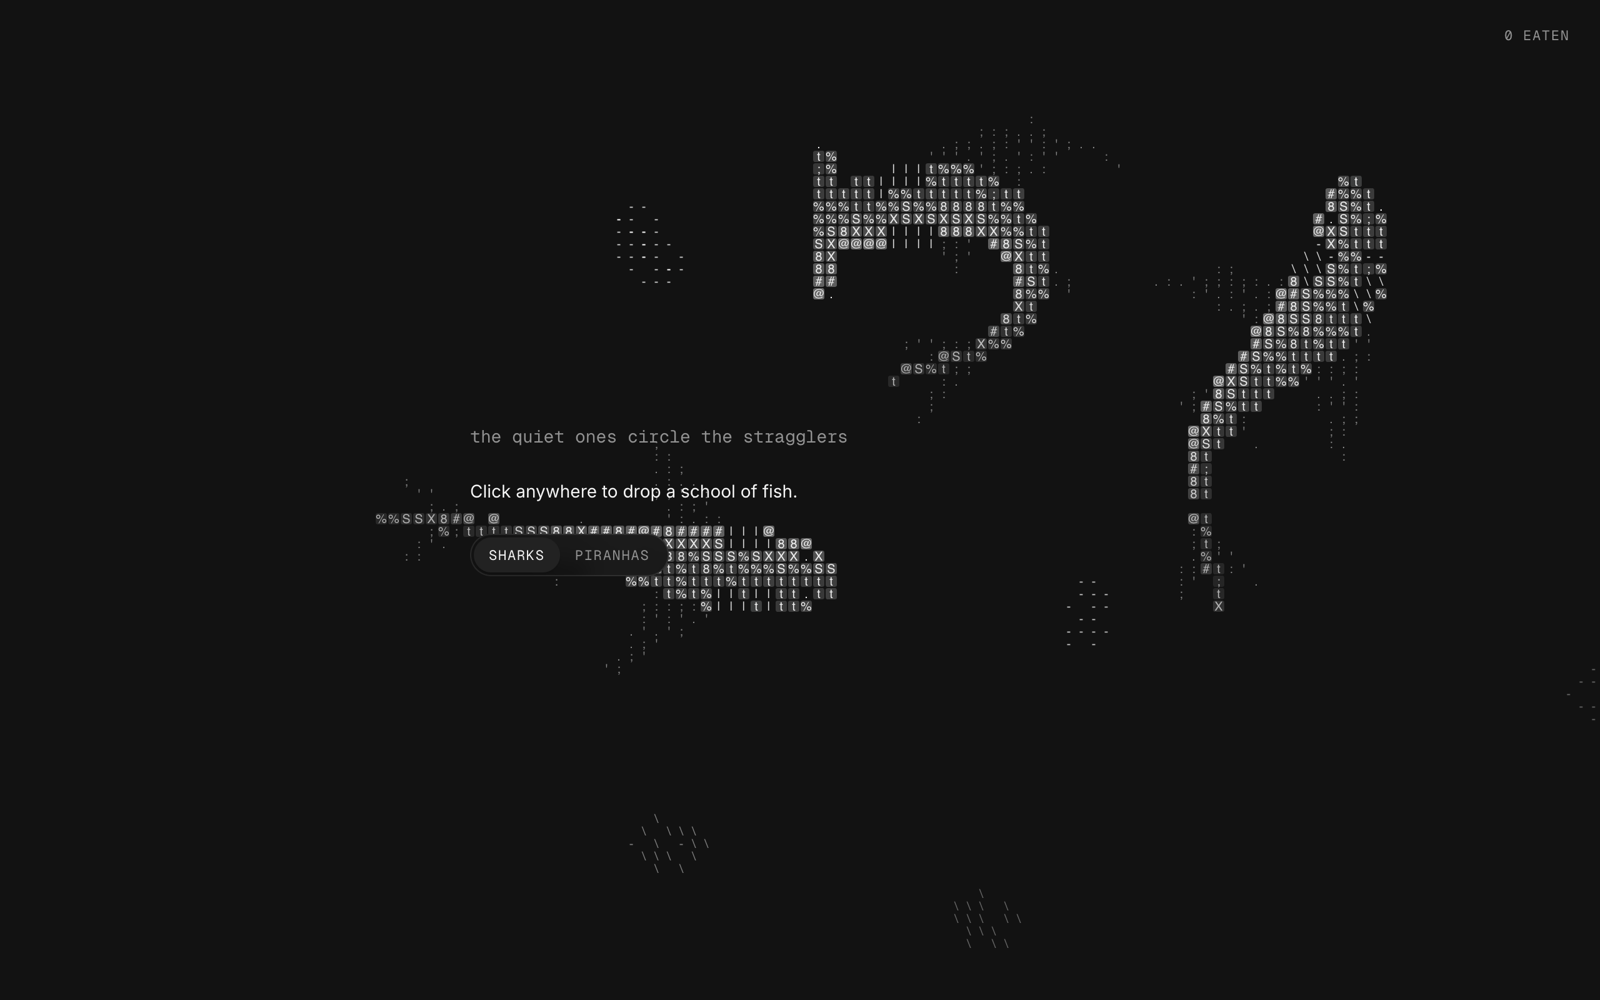
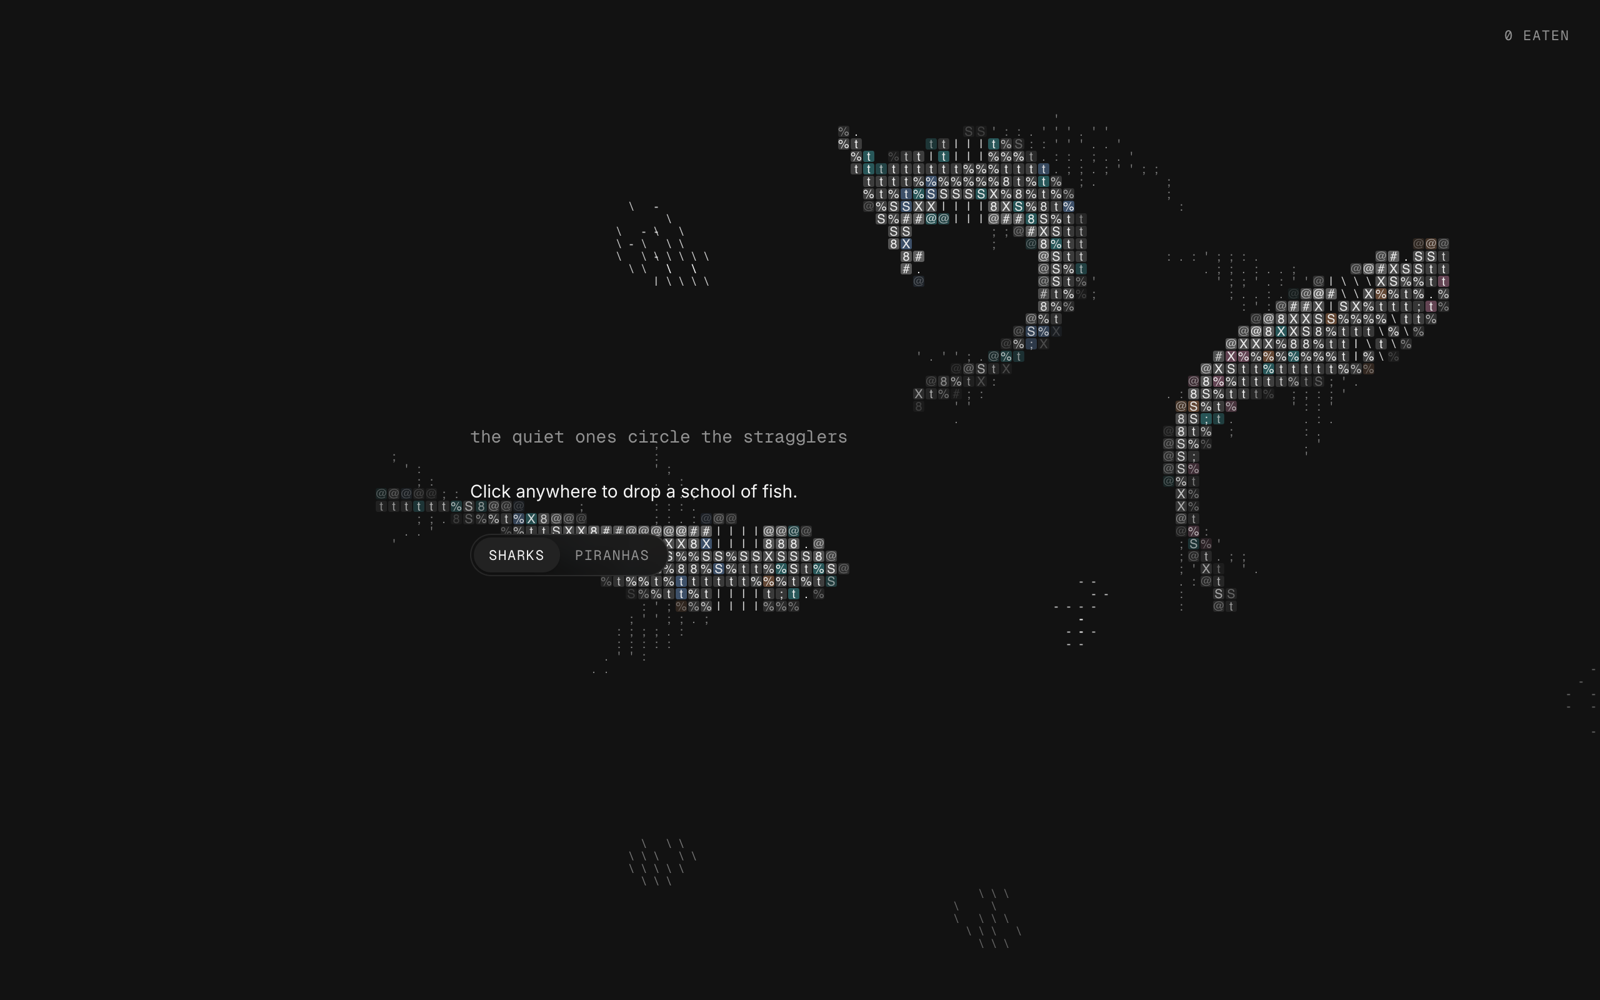
Ocean: sharks swim with a tail wave and steadier turns, soft edges, texture that travels with the body, and tiles in each shark's own muted hues; skill allows a muted mix as texture

diff --git a/registry/blocks/ocean.tsx b/registry/blocks/ocean.tsx
@@ -33,6 +33,12 @@ type Hunter = {
   full: number
   /** A hammerhead among the sharks. */
   hammer: boolean
+  /** The spine as drawn: the swim path plus a wave that grows towards the tail. */
+  body: Vec[]
+  /** Tail-beat phase. */
+  phase: number
+  /** The muted hues scattered over a shark's tiles. */
+  tints: string[]
 }
 type Splash = { x: number; y: number; age: number; seed: number }
 /** A cloud of blood, for the piranhas. */
@@ -53,6 +59,8 @@ const NODES = 16
 const RAMP = ":;t%SX8#@"
 const FIN = "%;tS:"
 const SPLASH_LIFE = 0.9
+/** Hues for the tinted tiles, as in the reference: violet, rose, sage, olive, slate blue, teal, clay. */
+const HUES = [300, 350, 150, 110, 255, 200, 55]
 const BLOOD_LIFE = 4.5
 
 /** A fin as a triangle in body space: leading root, trailing root, tip (s), and how far the tip reaches past the body (fraction of length). */
@@ -163,6 +171,9 @@ function spawnHunter(kind: Kind, width: number, height: number, i: number, n: nu
     seed: r(6) * 100,
     // Every second shark is a hammerhead.
     hammer: kind === "shark" && i % 2 === 1,
+    body: [],
+    phase: r(8) * 10,
+    tints: [0, 1, 2].map((k) => `oklch(0.72 0.1 ${HUES[Math.floor(r(20 + k) * HUES.length)]})`),
     target: null,
     full: r(7) * 3,
   }
@@ -331,10 +342,10 @@ function step(kind: Kind, w: Water, dt: number, time: number) {
     if (!h.target && !cloud && (hx < m || hy < m || hx > w.width - m || hy > w.height - m))
       want = towards(w.width / 2, w.height / 2) * 0.8
 
-    h.turn += (want - h.turn) * Math.min(1, dt * (kind === "shark" ? 1.5 : cloud ? 10 : 6))
+    h.turn += (want - h.turn) * Math.min(1, dt * (kind === "shark" ? 0.9 : cloud ? 10 : 6))
     h.speed += (speed - h.speed) * Math.min(1, dt * (kind === "shark" ? 0.8 : cloud ? 5 : 3))
     const beat = kind === "shark" ? 2.2 : cloud ? 16 : 9
-    h.heading += (h.turn + Math.sin(time * beat + h.seed) * (kind === "shark" ? 0.07 : 0.6)) * dt
+    h.heading += (h.turn + Math.sin(time * beat + h.seed) * (kind === "shark" ? 0 : 0.6)) * dt
     h.spine[0] = [hx + Math.cos(h.heading) * h.speed * dt, hy + Math.sin(h.heading) * h.speed * dt]
     const seg = h.length / (NODES - 1)
     for (let i = 1; i < NODES; i++) {
@@ -343,6 +354,20 @@ function step(kind: Kind, w: Water, dt: number, time: number) {
       const d = Math.hypot(ax - bx, ay - by) || 1
       h.spine[i] = [ax - ((ax - bx) / d) * seg, ay - ((ay - by) / d) * seg]
     }
+
+    // The swim: a wave runs head to tail, small at the head and wide at the
+    // tail, faster when the fish is in a hurry. Drawn, not steered, so the
+    // path stays smooth.
+    h.phase += dt * beat * (0.55 + (0.45 * h.speed) / P.cruise)
+    const amp = h.length * (kind === "shark" ? 0.045 : 0.05)
+    h.body = h.spine.map(([x, y], i): Vec => {
+      const k = i / (NODES - 1)
+      const [ax, ay] = h.spine[Math.max(0, i - 1)]
+      const [bx, by] = h.spine[Math.min(NODES - 1, i + 1)]
+      const dir = Math.atan2(by - ay, bx - ax)
+      const off = amp * Math.pow(k, 1.6) * Math.sin(h.phase - k * 4.2)
+      return [x - Math.sin(dir) * off, y + Math.cos(dir) * off]
+    })
   }
 }
 
@@ -409,7 +434,8 @@ function draw(kind: Kind, g: AsciiGrid, w: Water, accent: string) {
     const P = h.hammer ? HAMMER : PROFILES[kind]
     const L = h.length
     let x0 = Infinity, y0 = Infinity, x1 = -Infinity, y1 = -Infinity
-    for (const [x, y] of h.spine) {
+    const spine = h.body.length ? h.body : h.spine
+    for (const [x, y] of spine) {
       x0 = Math.min(x0, x); y0 = Math.min(y0, y); x1 = Math.max(x1, x); y1 = Math.max(y1, y)
     }
     const pad = L * 0.42
@@ -417,11 +443,18 @@ function draw(kind: Kind, g: AsciiGrid, w: Water, accent: string) {
     const [c1, r1] = cellOf(x1 + pad, y1 + pad)
     for (let r = Math.max(0, r0); r <= Math.min(g.rows, r1); r++)
       for (let c = Math.max(0, c0); c <= Math.min(g.cols, c1); c++) {
-        const { s, l } = locate(h.spine, (c + 0.5) * cell, (r + 0.5) * cell)
+        const { s, l } = locate(spine, (c + 0.5) * cell, (r + 0.5) * cell)
         const body = P.body(s) * L
-        const n = hash(c, r, h.seed)
+        // Texture lives in body space, so it travels with the fish instead
+        // of flickering as the body slides over the grid.
+        const bi = Math.round((s * L) / cell)
+        const bj = Math.round(l / cell)
+        const n = hash(bi, bj, h.seed)
         const a = Math.abs(l)
-        if (a <= body + (n - 0.5) * cell * 0.4) {
+        if (a <= body + cell * 0.45) {
+          // Soft edge: a cell half over the body is half there.
+          const cover = Math.max(0, Math.min(1, (body - a) / cell + 0.6))
+          if (cover <= 0.05) continue
           // Light from one side: bright flank sparse, far flank dense.
           const u = l / Math.max(1, body)
           const light = Math.max(0, Math.min(1, 0.62 - u * 0.32 - Math.abs(u) * Math.abs(u) * 0.3 + (n - 0.5) * 0.18))
@@ -429,9 +462,15 @@ function draw(kind: Kind, g: AsciiGrid, w: Water, accent: string) {
           const tail = smooth(0.6, 1, s)
           // The dorsal fin, seen from above: a bright dense line down the back.
           const ridge = P.ridge && s > P.ridge[0] && s < P.ridge[1] && Math.abs(u) < 0.12
-          // Sharks are tiles: a block shaded by the light with its glyph on top.
-          if (kind === "shark") g.block(c, r, g.ink, (0.1 + (1 - light) * 0.28) * (1 - tail * 0.5))
-          g.glyph(c, r, ridge ? "8" : char, g.ink, ridge ? 0.9 : 0.95 - tail * 0.3)
+          if (kind === "shark") {
+            // Sharks are tiles: a block shaded by the light with its glyph on
+            // top, and a few tiles in the shark's own muted hues that shift
+            // slowly, like light through water.
+            const t = hash(bi, bj, h.seed + Math.floor(g.time * 0.7 + n * 3))
+            const tint = t < 0.16 ? h.tints[Math.floor(t * 100) % h.tints.length] : null
+            g.block(c, r, tint ?? g.ink, (tint ? 0.42 : 0.1 + (1 - light) * 0.28) * (1 - tail * 0.5) * cover)
+          }
+          g.glyph(c, r, ridge ? "8" : char, g.ink, (ridge ? 0.9 : 0.95 - tail * 0.3) * cover)
           continue
         }
         if (P.fins.some((f) => inFin(f, P.body, s, a / L))) {
@@ -450,7 +489,7 @@ function draw(kind: Kind, g: AsciiGrid, w: Water, accent: string) {
         const gs = g0 + ((g1 - g0) * k) / 3
         for (const side of [-1, 1])
           for (const f of [0.55, 0.85]) {
-            const q = point(h.spine, gs, side * P.body(gs) * L * f)
+            const q = point(spine, gs, side * P.body(gs) * L * f)
             const [qc, qr] = cellOf(q.x, q.y)
             g.clear(qc, qr)
             g.glyph(qc, qr, stroke(q.dir + Math.PI / 2), g.ink, 0.85)
@@ -460,13 +499,13 @@ function draw(kind: Kind, g: AsciiGrid, w: Water, accent: string) {
 
     // Eyes; piranhas show their teeth.
     for (const side of [-1, 1]) {
-      const eye = point(h.spine, P.eye[0], side * P.eye[1] * L)
+      const eye = point(spine, P.eye[0], side * P.eye[1] * L)
       const [ec, er] = cellOf(eye.x, eye.y)
       g.clear(ec, er)
       g.glyph(ec, er, kind === "shark" ? "." : "o", g.ink, 1)
     }
     if (kind === "piranha") {
-      const jaw = point(h.spine, 0.01, 0)
+      const jaw = point(spine, 0.01, 0)
       const [jc, jr] = cellOf(jaw.x + Math.cos(jaw.dir) * cell * 0.6, jaw.y + Math.sin(jaw.dir) * cell * 0.6)
       g.glyph(jc, jr, "v", g.ink, h.target || w.blood.length ? 1 : 0.6)
     }

diff --git a/skills/uia/references/examples.md b/skills/uia/references/examples.md
@@ -25,7 +25,7 @@ your visual reference. Screenshots are also in the uia repo under
 | Ground station | `example-ground-station` | drag-to-turn wireframe globe with orbits (front solid, back dashed), the night side shaded for volume, satellites as a small glyph along their heading, a recenter button only once turned, "in view" stat, sky plot of the pass (dashed when upcoming, live in `success`), countdown or live Mbps, onboard `MeterBar`, satellites as `WidgetListRow`s with a 3 h pass timeline + `StatusBadge`, station `Select` with mono coordinates, UTC clock ×60 in the footer and a Book CTA that books the next pass (never the one under way); switching station says "Tracking from …" where the clock is, for a moment (no toast); out-of-view rows use a hollow dot; phones drop the timelines | live tracking of things moving over a place (satellites, fleets, deliveries), any widget with a spatial view + a list of upcoming windows |
 | Purchase orders + Filter | `example-purchase-orders` | **PurchaseOrders:** status `Segmented` with mono counts (a `Select` on phones), removable date chip, supplier `Select`, search that opens from an icon; rows as a schedule — placed → delivery, `brand` fill as far as billed, dashed outline while pending, a ring for delivery, one dashed "Today" line and week lines drawn once behind the rows, legend under it; checkboxes turn the footer into bulk actions. **BillsFilter:** due-date chips that read "Sep 1" over the native picker, an amount range over its histogram (bars lit inside the range, sqrt scale), "Overdue only" switch, document types with counts, "Show N bills" counting live, Reset once changed | any list of records over time with bulk actions; any filter panel (show the distribution you are cutting, count the result on the button) |
 | Koi pond | `example-koi-pond` | an ASCII backdrop: koi as small blocks in the ink with patches in one colour, eyes punched out, whiskers and fins as strokes, swimming on a cell grid under a typed line; click drops food, rings spread in ASCII and the nearest koi turn for it; the corner counts what was eaten | landing and empty pages, a hero behind a short line; never inside a widget |
-| Ocean | `example-ocean` | an ASCII backdrop of predators and prey: bait fish as single strokes that school and scatter, predators shaded with a glyph ramp (sparse where the light falls, dense in shadow); sharks are shaded tiles with swept-back pectorals, a dorsal line, gill slits and a forked tail, every second one a hammerhead, turning wide and lunging at stragglers; a piranha pack with fins in one colour; click drops a school for the sharks, or blood for the piranhas, which go into a frenzy and tear through it; the corner counts what was eaten | the same places as the koi pond: landing, empty and error pages, behind a short line |
+| Ocean | `example-ocean` | an ASCII backdrop of predators and prey: bait fish as single strokes that school and scatter, predators shaded with a glyph ramp (sparse where the light falls, dense in shadow); sharks are shaded tiles (a few in the shark's own muted hues, shifting slowly) with a tail wave, swept-back pectorals, a dorsal line, gill slits and a forked tail, every second one a hammerhead, turning wide and lunging at stragglers; a piranha pack with fins in one colour; click drops a school for the sharks, or blood for the piranhas, which go into a frenzy and tear through it; the corner counts what was eaten | the same places as the koi pond: landing, empty and error pages, behind a short line |
 | Merge conflicts | `example-merge-conflicts` | a pull request behind its base: branches as a commit graph drawn row by row (one lane per branch, curves only where a branch forks or merges, so lines stay aligned as rows arrive), the base commit that touched the same lines tagged, conflicting files as a list linked to the graph (hover dims the other commits), each file opening to both sides with a bar in its branch colour, then the resolved lines coloured by origin; one verb at a time in the footer (Merge main and resolve → Merge pull request); the merge commit arrives dashed and shimmering, files resolve one by one. Also answered in the Assistant (`?scenario=merge`) at `size="sm"` | code review, CI, any agent that fixes something in the person's repo and needs a go-ahead; any history with branches |
 | Model router | `example-model-router` | number + `Segmented` policy, flow graph linked to a list, inline controls in a sentence (Fallback if … retry on …), deploy with states | configuration with a preview, routing, A/B, policies |
 | Agent runtime | `example-agent-runtime` | small number of things with state, illustration that highlights the focused thing, list rows with badge + countdown, select → act | resources with lifecycle (jobs, agents, sandboxes, workers) |

diff --git a/skills/uia/references/grammar.md b/skills/uia/references/grammar.md
@@ -134,7 +134,9 @@ the visual: MeterBar · TickMeter row · flow graph · scene
 - **ASCII animations are backdrops, not widgets.** Build them on
   `useAsciiCanvas` (one cell grid, ink read from CSS, sleeps off screen, a
   still frame under reduced motion). They sit behind the content, in the
-  ink plus at most one colour of their own, and never carry data or the
+  ink plus colour of their own: one accent, or a muted mix scattered as
+  texture (a few tinted tiles), never a colour that means something in the
+  UI, and never carry data or the
   only way to do something. The content on top stays readable and keeps
   its clicks; the backdrop may answer the pointer (food, ripples) but
   nothing depends on it. One per page.
